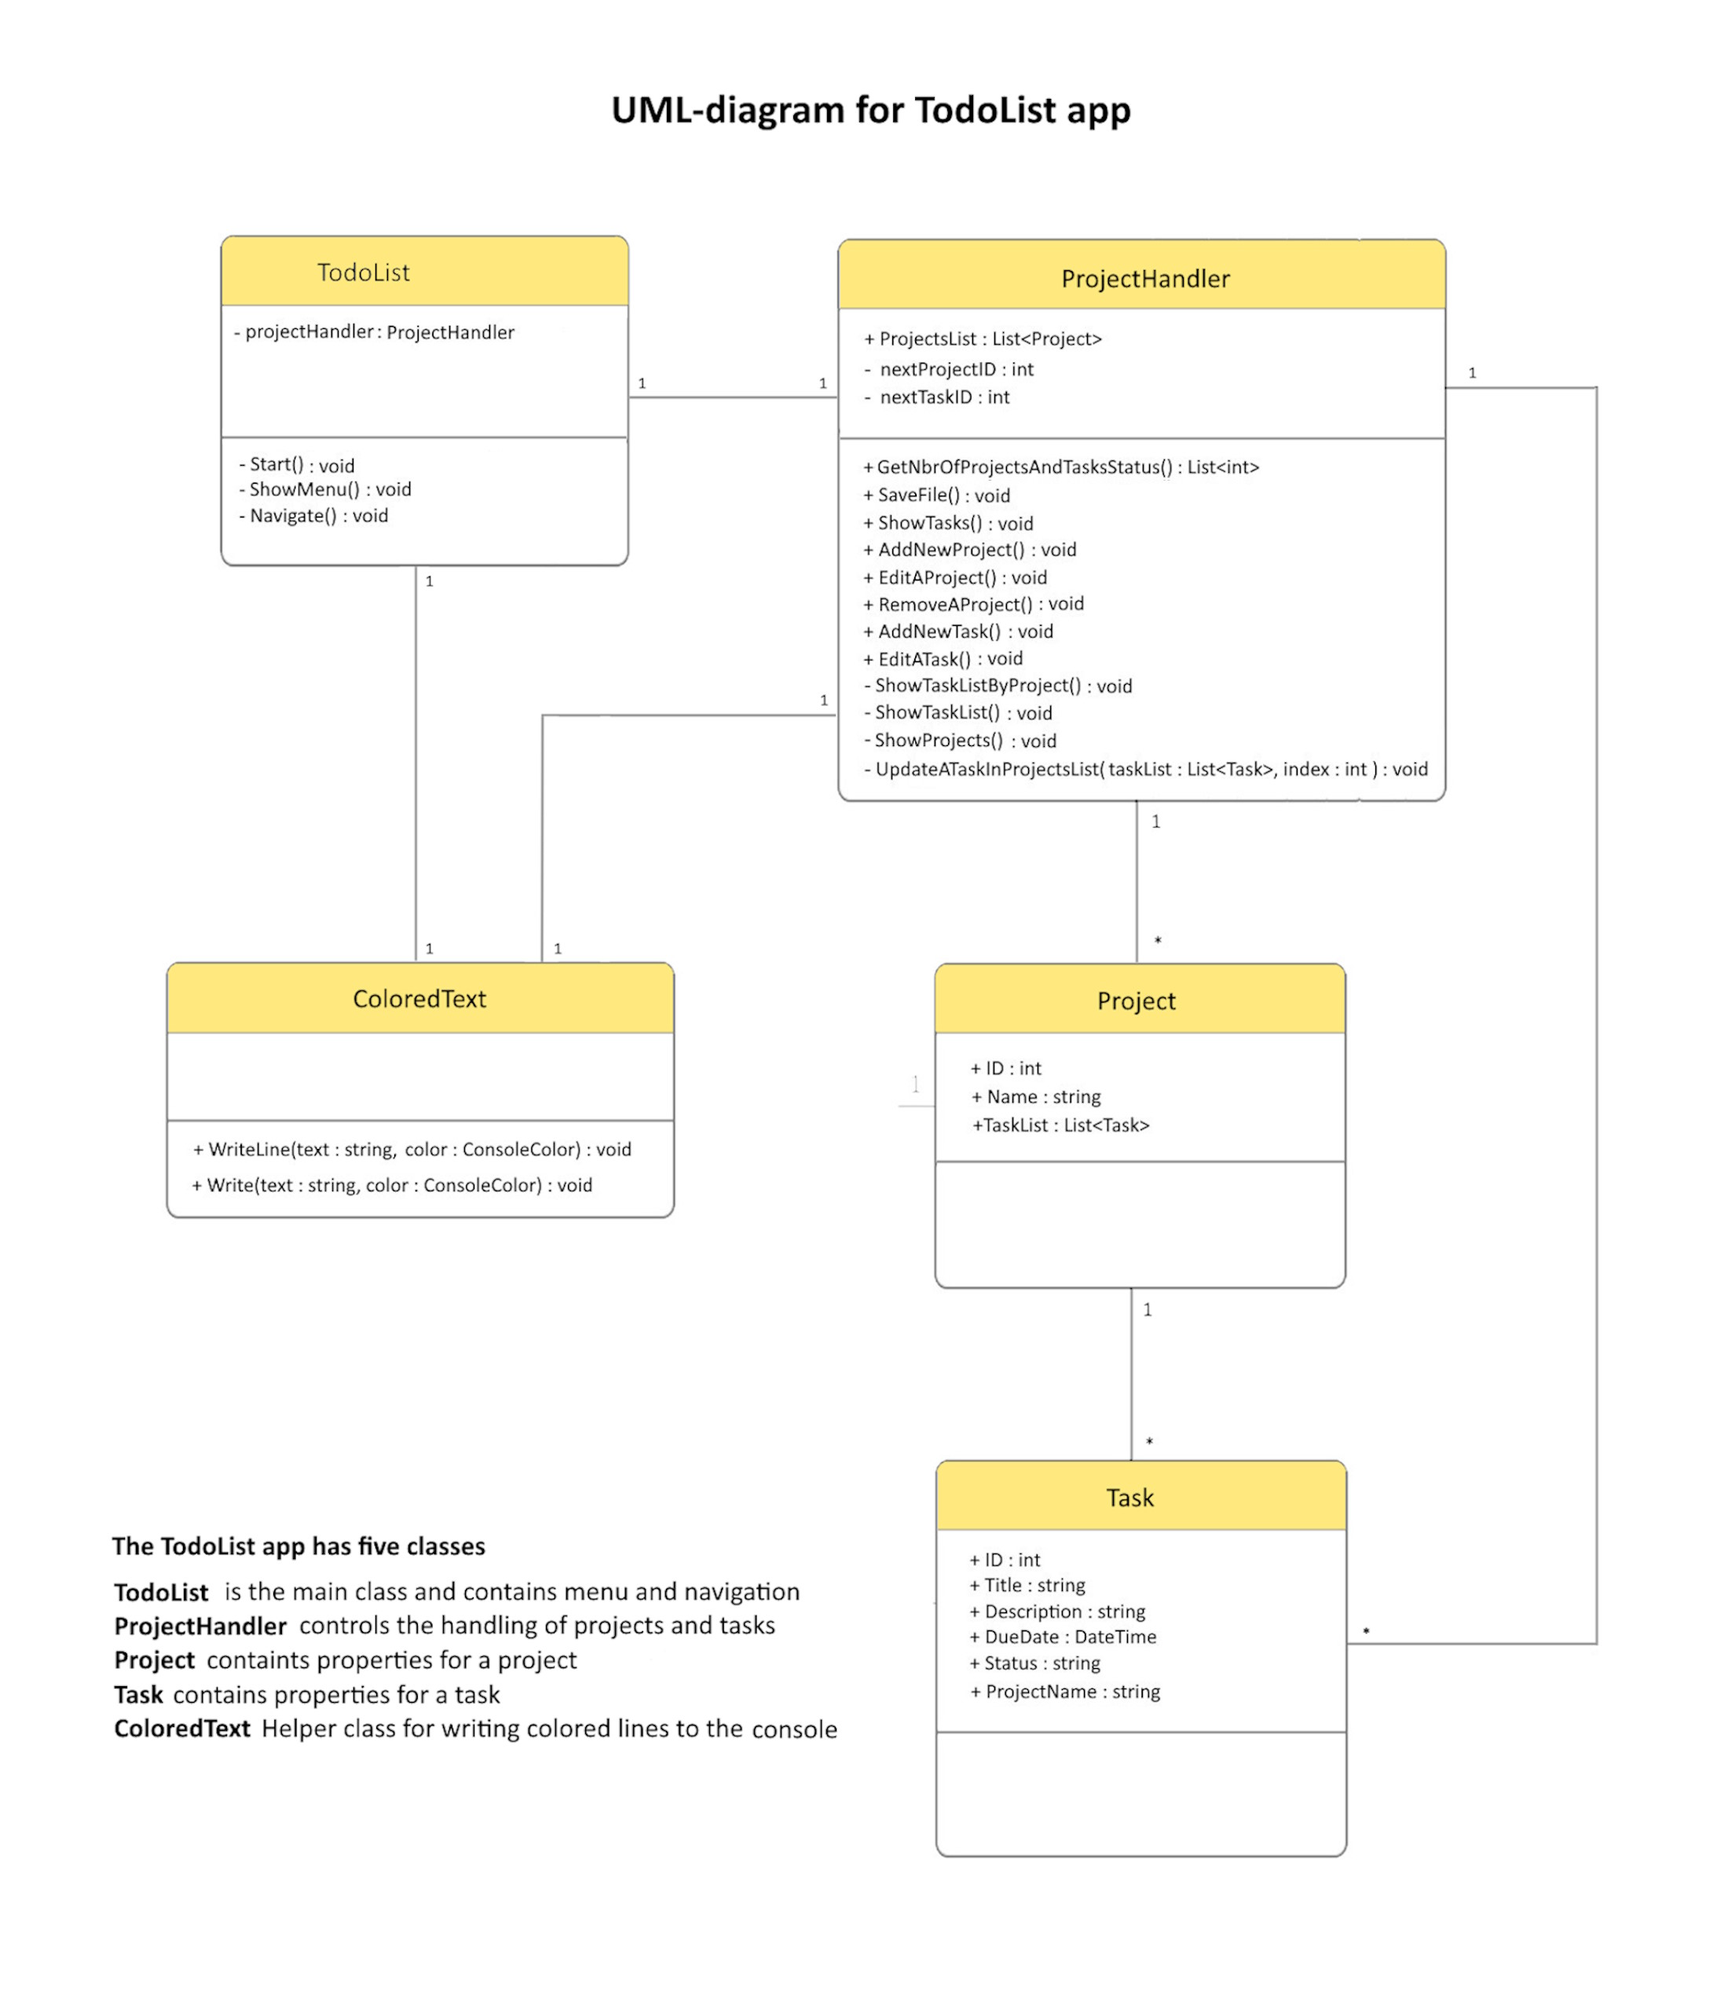
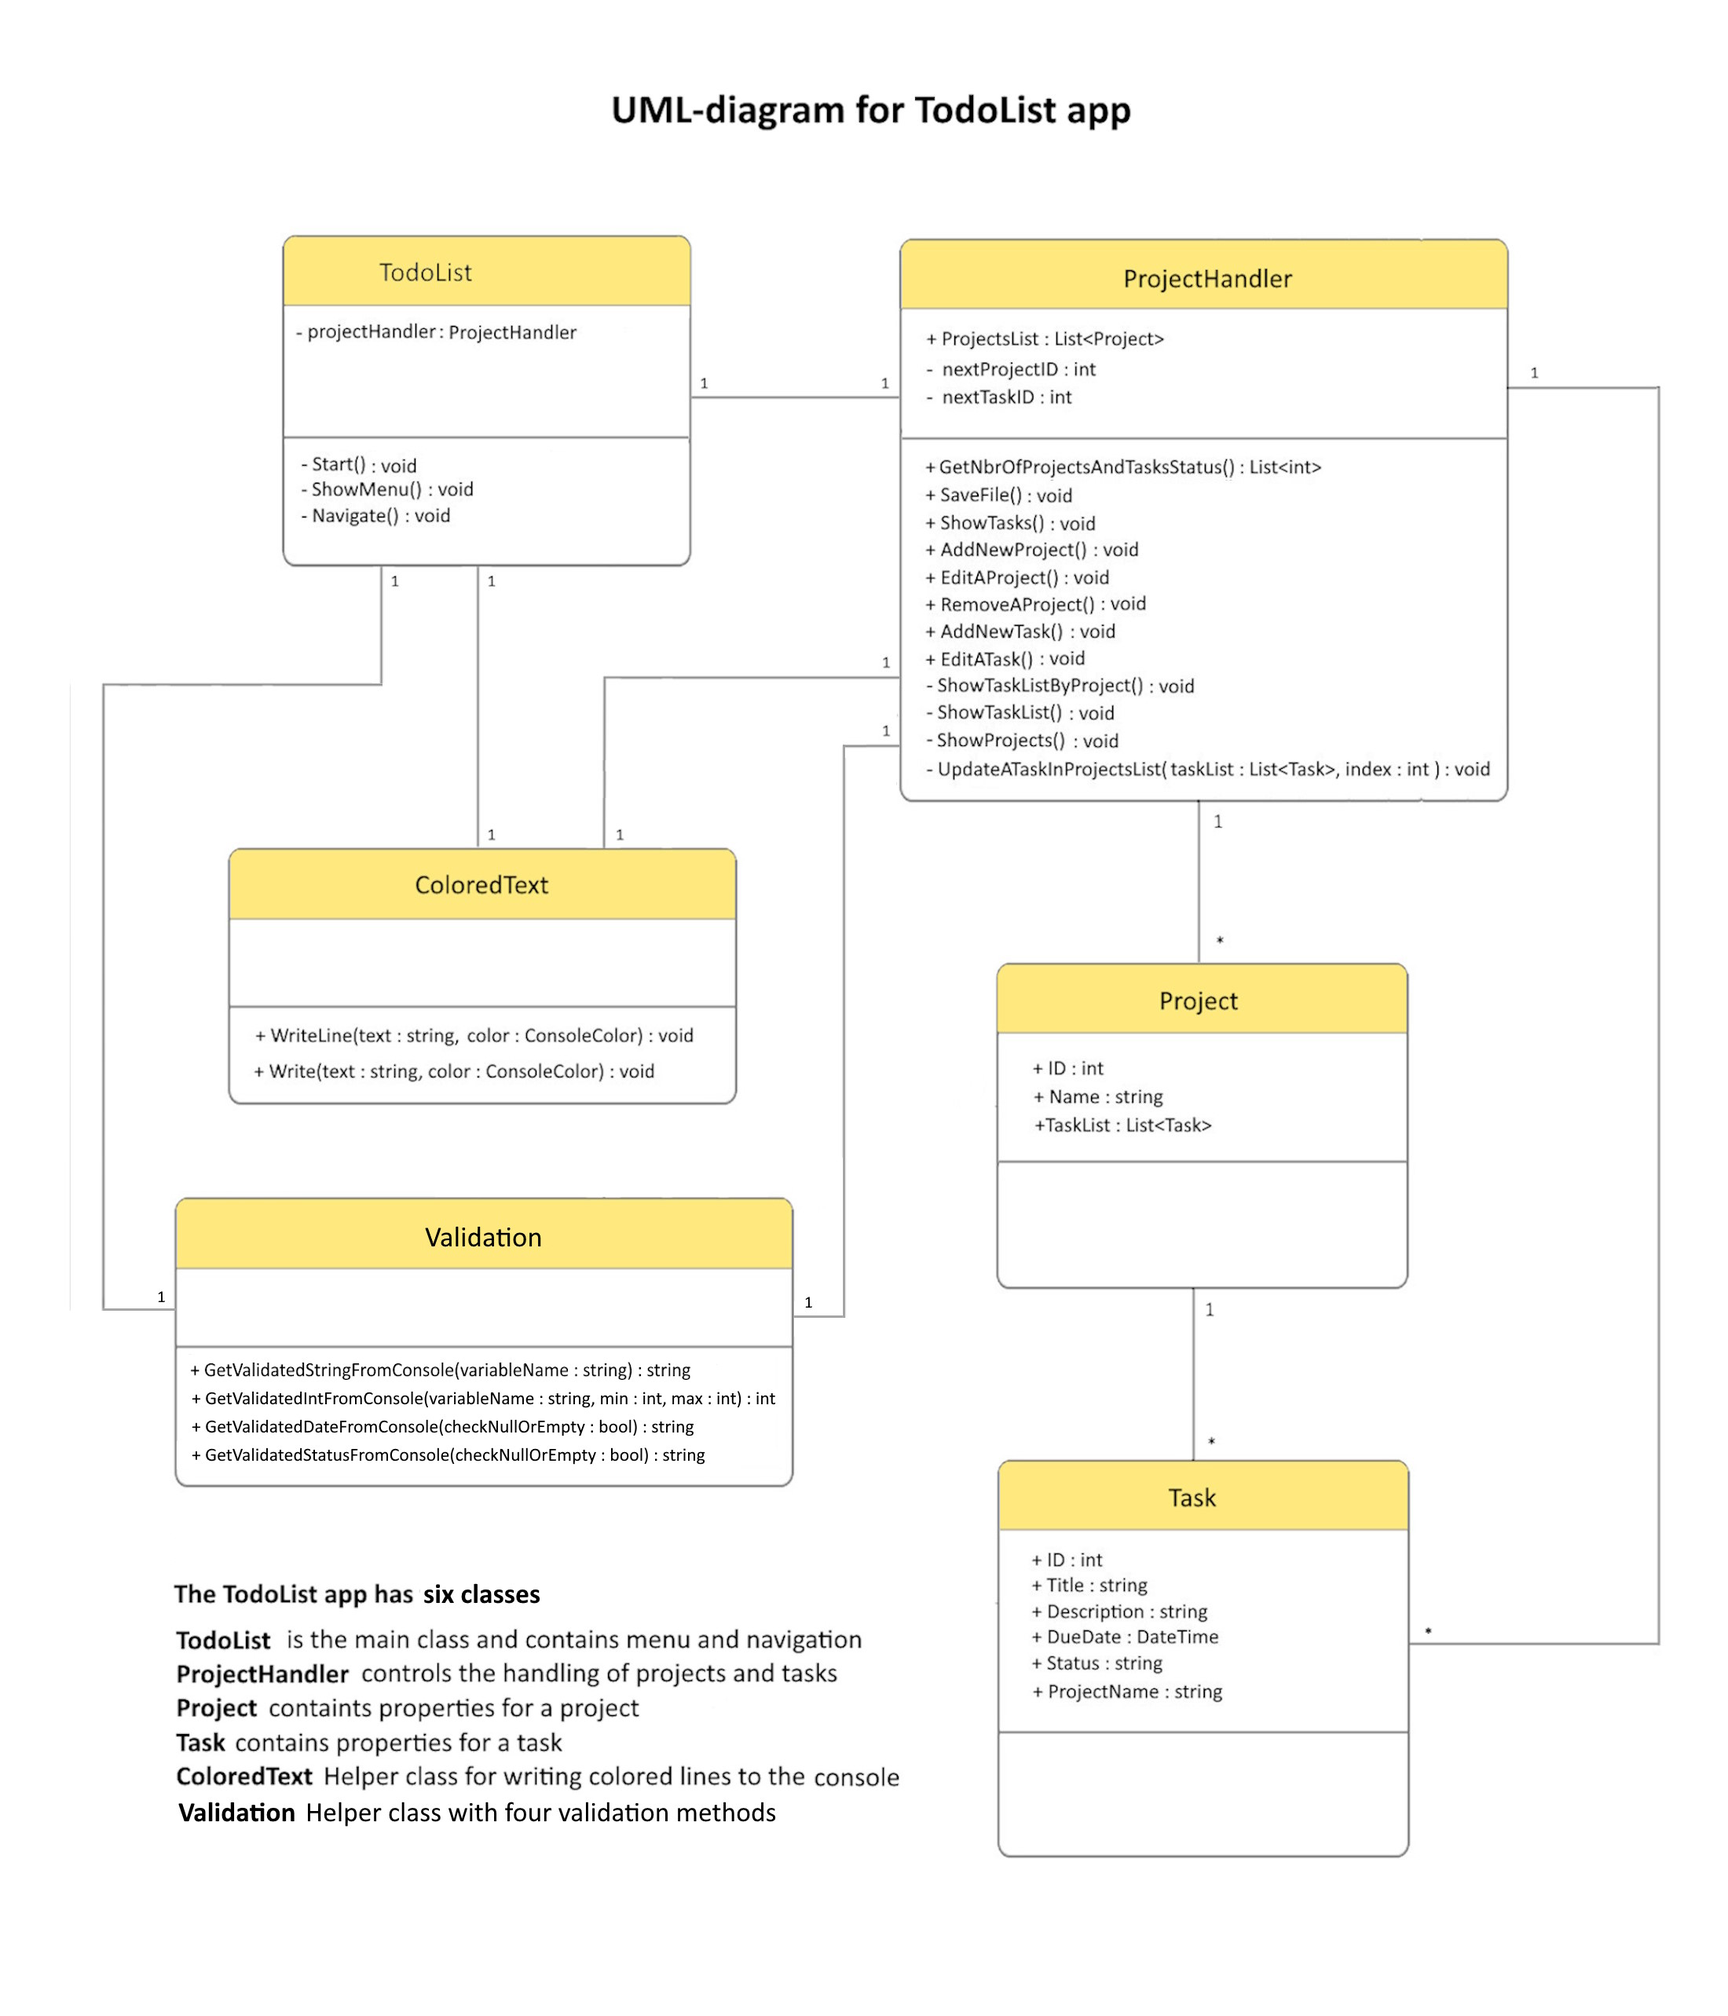
GR

diff --git a/ProjectHandler.cs b/ProjectHandler.cs
@@ -94,7 +94,7 @@ namespace Project_I_Todo_list
             Console.Write("\n ");
             int min = 1;
             int max = 2;
-            int answer = GetValidatedIntFromConsole("Number", min, max);
+            int answer = Validation.GetValidatedIntFromConsole("Number", min, max);
 
             if (answer == 1)
                 ShowTaskListByProject();
@@ -106,7 +106,7 @@ namespace Project_I_Todo_list
         {
             ColoredText.WriteLine("\n To enter a new project - Follow the steps\n",ConsoleColor.Yellow);
 
-            string name = GetValidatedStringFromConsole("Project name");
+            string name = Validation.GetValidatedStringFromConsole("Project name");
             nextProjectID++;
             Project project = new Project(nextProjectID, name);
             ProjectsList.Add(project);
@@ -118,8 +118,8 @@ namespace Project_I_Todo_list
             ShowProjects();
             int min = 1;
             int max = ProjectsList.Count;
-            int index = GetValidatedIntFromConsole("Number", min, max );
-            ProjectsList[index - 1].Name = GetValidatedStringFromConsole("Project name");
+            int index = Validation.GetValidatedIntFromConsole("Number", min, max );
+            ProjectsList[index - 1].Name = Validation.GetValidatedStringFromConsole("Project name");
         }
 
         public void RemoveAProject()
@@ -128,7 +128,7 @@ namespace Project_I_Todo_list
             ShowProjects();
             int min = 1;
             int max = ProjectsList.Count;
-            int index = GetValidatedIntFromConsole("Number", min, max);
+            int index = Validation.GetValidatedIntFromConsole("Number", min, max);
             
             ColoredText.WriteLine("\n " + ProjectsList[index-1].Name + " has been removed", ConsoleColor.Yellow);
             ProjectsList.RemoveAt(index-1);
@@ -142,18 +142,18 @@ namespace Project_I_Todo_list
             ShowProjects();
             int min = 1;
             int max = ProjectsList.Count;
-            int projectIndex = GetValidatedIntFromConsole("Number", min, max);
+            int projectIndex = Validation.GetValidatedIntFromConsole("Number", min, max);
 
             ColoredText.WriteLine("\n To enter a task - Follow the steps", ConsoleColor.Yellow);
 
-            string title = GetValidatedStringFromConsole("Title");
+            string title = Validation.GetValidatedStringFromConsole("Title");
 
-            string description = GetValidatedStringFromConsole("Description");
+            string description = Validation.GetValidatedStringFromConsole("Description");
 
-            string dateStr = GetValidatedDateFromConsole(true);
+            string dateStr = Validation.GetValidatedDateFromConsole(true);
             DateTime dueDate = DateTime.Parse(dateStr);
 
-            string status = GetValidatedStatusFromConsole(true);
+            string status = Validation.GetValidatedStatusFromConsole(true);
             
             Task task = new Task(nextTaskID++, title, description, dueDate, status);
             ProjectsList[projectIndex - 1].TaskList.Add(task);
@@ -167,7 +167,7 @@ namespace Project_I_Todo_list
             List<Task> taskList = ShowTaskList(false, true);
             int min = 1;
             int max = taskList.Count;
-            int index = GetValidatedIntFromConsole("Number", min, max);
+            int index = Validation.GetValidatedIntFromConsole("Number", min, max);
 
             ColoredText.WriteLine("\n Enter a new values. Just press enter if you do not want to change the value.", ConsoleColor.Yellow);
             
@@ -181,13 +181,13 @@ namespace Project_I_Todo_list
             if (String.IsNullOrEmpty(description) == false)
                 taskList[index - 1].Description = description;
 
-            string dateStr = GetValidatedDateFromConsole(false);
+            string dateStr = Validation.GetValidatedDateFromConsole(false);
             if (dateStr != null){
                 DateTime dueDate = DateTime.Parse(dateStr);
                 taskList[index - 1].DueDate = dueDate;
             }
 
-            string status = GetValidatedStatusFromConsole(false);
+            string status = Validation.GetValidatedStatusFromConsole(false);
             if (String.IsNullOrEmpty(status) == false)
                 taskList[index - 1].Status = status;
 
@@ -200,7 +200,7 @@ namespace Project_I_Todo_list
             List<Task> taskList = ShowTaskList(false, true); 
             int min = 1;
             int max = taskList.Count;
-            int index = GetValidatedIntFromConsole("Number", min, max);
+            int index = Validation.GetValidatedIntFromConsole("Number", min, max);
             
             int taskID = taskList[index - 1].ID;
             string taskTitle = taskList[index - 1].Title;
@@ -331,112 +331,6 @@ namespace Project_I_Todo_list
             Console.WriteLine("\n----------------------------------------------------------------------------------------------");
         }
 
-        // Gets a atring from the console and validates it so its not empty.
-        private string GetValidatedStringFromConsole(string variableName)
-        {
-            Console.Write("\n Enter a " + variableName + ": ");
-            string result = Console.ReadLine();
-
-            while (String.IsNullOrEmpty(result))
-            {
-                ColoredText.WriteLine(" " + variableName + " can't be an empty string", ConsoleColor.Red);                
-                Console.Write(" Enter a " + variableName + ": ");
-                result = Console.ReadLine();
-            }
-
-            return result;
-        }
-
-        // Gets an integer from the console and validates it so its not empty and only contains digits, and also checks if the number is between min and max.
-        public int GetValidatedIntFromConsole(string variableName, int min, int max)
-        {
-            bool isValidInteger;
-            int index;
-            do
-            {
-                Console.Write("\n Enter a " + variableName + ": ");
-                isValidInteger = int.TryParse(Console.ReadLine(), out index);
-
-                if (isValidInteger == false)
-                {
-                    ColoredText.WriteLine(" " + variableName + " can only contain digits and can't be empty.", ConsoleColor.Red);
-                }
-                else if (index < min || index > max)
-                {
-                    ColoredText.WriteLine(" " + variableName + " must be non-negative and higher than zero and lower than " + (max + 1) + ".", ConsoleColor.Red);
-                    isValidInteger = false;
-                }
-            } while (isValidInteger == false);
-
-            return index;
-        }
-
-        // Thera are two cases, in the first case NullOrEmpty is allowed, in the second case its treated as an error.
-        private string GetValidatedDateFromConsole(bool checkNullOrEmpty)
-        {
-            bool isDate;
-            string result;
-            do
-            {
-                Console.Write("\n Enter a new Due date: ");
-                result = Console.ReadLine();
-
-                if (!checkNullOrEmpty && String.IsNullOrEmpty(result))
-                {
-                    return null;
-                }
-
-                else if (String.IsNullOrEmpty(result))
-                {
-                    ColoredText.WriteLine(" You have entered an empty string for date.", ConsoleColor.Red);
-                    isDate = false;
-                }
-                else
-                {
-                    isDate = DateTime.TryParse(result, out DateTime dueDate);
-
-                    if (isDate == false)
-                    {
-                        ColoredText.WriteLine(" You have not entered a valid date.", ConsoleColor.Red);
-                    }
-                }
-
-            } while (isDate == false);
-
-            return result;
-        }
-
-        // Thera are two cases, in the first case NullOrEmpty is allowed, in the second case its treated as an error.
-        private string GetValidatedStatusFromConsole(bool checkNullOrEmpty)
-        {
-            string result;
-            bool endLoop = false;
-            do
-            {
-                Console.Write("\n Enter a new Status: ");
-                result = Console.ReadLine();
-
-                if (!checkNullOrEmpty && String.IsNullOrEmpty(result))
-                {
-                    endLoop = true;
-                }
-                else if (result == "Not finished" || result == "Finished")
-                {
-                    endLoop = true;
-                }
-                else if (String.IsNullOrEmpty(result))
-                {
-                    ColoredText.WriteLine(" You have entered an empty string. Please enter a status", ConsoleColor.Red);
-                }
-                else
-                {
-                    ColoredText.WriteLine(" You have not entered a valid status. Please enter \"Not finished\" or \"Finished\"", ConsoleColor.Red);
-                }
-                
-            } while (!endLoop);
-
-            return result;
-        }  
 
         // GetLongestTextLengthForTitle() finds the longest task.title.
         private int GetLongestTextLengthForTitle()

diff --git a/Validation.cs b/Validation.cs
@@ -1,0 +1,117 @@
+using System;
+using System.Runtime.CompilerServices;
+
+namespace Project_I_Todo_list
+{
+
+    public static class Validation
+    {
+
+        // Gets a atring from the console and validates it so its not empty.
+        public static string GetValidatedStringFromConsole(string variableName)
+        {
+            Console.Write("\n Enter a " + variableName + ": ");
+            string result = Console.ReadLine();
+
+            while (String.IsNullOrEmpty(result))
+            {
+                ColoredText.WriteLine(" " + variableName + " can't be an empty string", ConsoleColor.Red);
+                Console.Write(" Enter a " + variableName + ": ");
+                result = Console.ReadLine();
+            }
+
+            return result;
+        }
+
+        // Gets an integer from the console and validates it so its not empty and only contains digits, and also checks if the number is between min and max.
+        public static int GetValidatedIntFromConsole(string variableName, int min, int max)
+        {
+            bool isValidInteger;
+            int index;
+            do
+            {
+                Console.Write("\n Enter a " + variableName + ": ");
+                isValidInteger = int.TryParse(Console.ReadLine(), out index);
+
+                if (isValidInteger == false)
+                {
+                    ColoredText.WriteLine(" " + variableName + " can only contain digits and can't be empty.", ConsoleColor.Red);
+                }
+                else if (index < min || index > max)
+                {
+                    ColoredText.WriteLine(" " + variableName + " must be non-negative and higher than zero and lower than " + (max + 1) + ".", ConsoleColor.Red);
+                    isValidInteger = false;
+                }
+            } while (isValidInteger == false);
+
+            return index;
+        }
+
+        // Thera are two cases, in the first case NullOrEmpty is allowed, in the second case its treated as an error.
+        public static string GetValidatedDateFromConsole(bool checkNullOrEmpty)
+        {
+            bool isDate;
+            string result;
+            do
+            {
+                Console.Write("\n Enter a new Due date: ");
+                result = Console.ReadLine();
+
+                if (!checkNullOrEmpty && String.IsNullOrEmpty(result))
+                {
+                    return null;
+                }
+
+                else if (String.IsNullOrEmpty(result))
+                {
+                    ColoredText.WriteLine(" You have entered an empty string for date.", ConsoleColor.Red);
+                    isDate = false;
+                }
+                else
+                {
+                    isDate = DateTime.TryParse(result, out DateTime dueDate);
+
+                    if (isDate == false)
+                    {
+                        ColoredText.WriteLine(" You have not entered a valid date.", ConsoleColor.Red);
+                    }
+                }
+
+            } while (isDate == false);
+
+            return result;
+        }
+
+        // Thera are two cases, in the first case NullOrEmpty is allowed, in the second case its treated as an error.
+        public static string GetValidatedStatusFromConsole(bool checkNullOrEmpty)
+        {
+            string result;
+            bool endLoop = false;
+            do
+            {
+                Console.Write("\n Enter a new Status: ");
+                result = Console.ReadLine();
+
+                if (!checkNullOrEmpty && String.IsNullOrEmpty(result))
+                {
+                    endLoop = true;
+                }
+                else if (result == "Not finished" || result == "Finished")
+                {
+                    endLoop = true;
+                }
+                else if (String.IsNullOrEmpty(result))
+                {
+                    ColoredText.WriteLine(" You have entered an empty string. Please enter a status", ConsoleColor.Red);
+                }
+                else
+                {
+                    ColoredText.WriteLine(" You have not entered a valid status. Please enter \"Not finished\" or \"Finished\"", ConsoleColor.Red);
+                }
+
+            } while (!endLoop);
+
+            return result;
+        }
+    }
+}

diff --git a/TodoList.cs b/TodoList.cs
@@ -74,7 +74,7 @@ namespace Project_I_Todo_list
             Console.Write("\n ");
             int min = 1;
             int max = 8;
-            int answer = projectHandler.GetValidatedIntFromConsole("Number", min, max);
+            int answer = Validation.GetValidatedIntFromConsole("Number", min, max);
 
             switch (answer)
             { 
